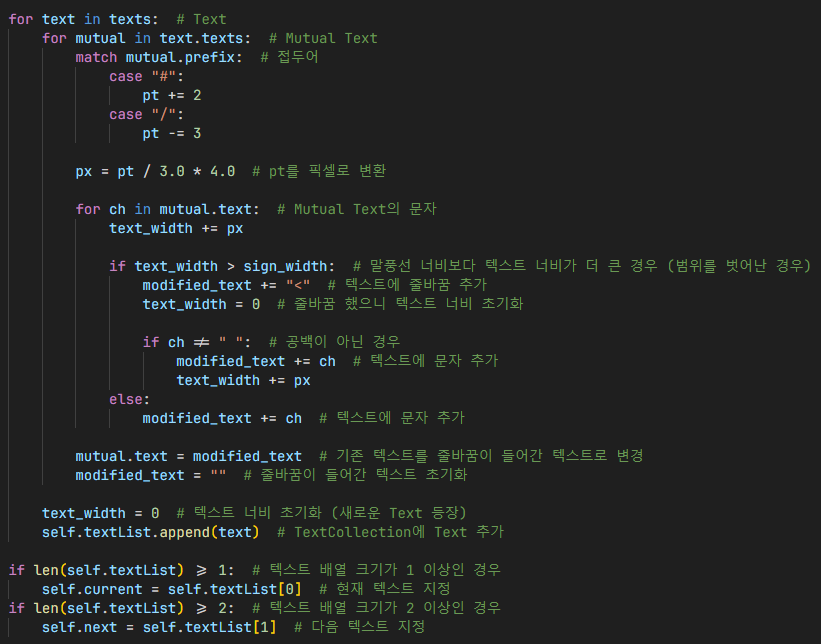
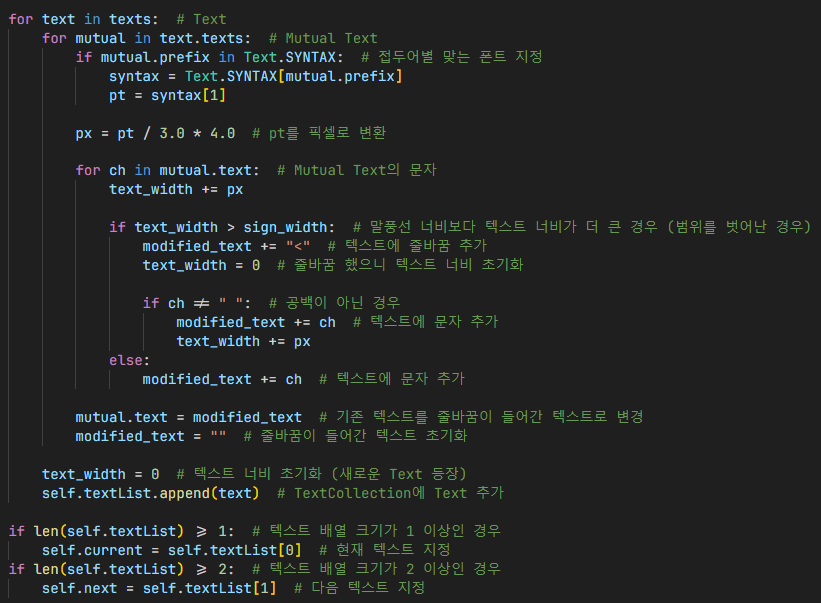
구조 문서화 14 - closed #12

diff --git a/components/text/__init__.py b/components/text/__init__.py
@@ -23,6 +23,19 @@ class Text:
     
     delay: int = 30
     """기본 지연 시간 (ms)"""
+
+    FONT = Fonts.TITLE2
+    """기본 폰트"""
+
+    PT = 18
+    """기본 폰트 크기"""
+
+    SYNTAX: dict[str, tuple[Font, int]] = {
+        "*": (Fonts.TITLE3, PT),
+        "#": (Fonts.TITLE2, PT + 4),
+        "/": (Fonts.DIALOG, PT - 4)
+    }
+    """구문"""
     
     """
     https://gist.github.com/ihoneymon/652be052a0727ad59601 : 일부 문법은 깃허브 마크다운 문법을 참조하였습니다.
@@ -32,15 +45,6 @@ class Text:
     / : 작게
     < : 줄바꿈 (New Line)
     """
-
-    FONT = Fonts.TITLE2
-    PT = 18
-
-    SYNTAX: dict[str, tuple[Font, int]] = {
-        "*": (Fonts.TITLE3, PT),
-        "#": (Fonts.TITLE2, PT + 4),
-        "/": (Fonts.DIALOG, PT - 4)
-    }
 
     def __init__(self, text: str, delay: Optional[int] = 30):
         """
@@ -53,7 +57,7 @@ class Text:
         self.pure = text  # 일단 저장. 어차피 replace() 함수를 통해 접두어를 제거하기 때문.
         self.delay = delay
 
-        for prefix in ["*", "#", "/", "^"]:
+        for prefix in ["*", "#", "/"]:
             if prefix in self.pure:  # 텍스트에 접두어가 있는 경우
                 self.has_prefix = True
                 self.pure = self.pure.replace(prefix, "")  # 순수 텍스트는 접두어가 없으므로 접두어만 삭제
@@ -64,7 +68,7 @@ class Text:
 
         for ch in self.raw:
             match ch:
-                case "*" | "#" | "/" | "^":  # 접두어
+                case "*" | "#" | "/":  # 접두어
                     is_started = not is_started  # 접두어가 없었으면 시작, 있었으면 끝
 
                     if mutual_text_:  # mutual text가 비어있지 않은 경우

diff --git a/docs/submission/dynamic_text_animation.md b/docs/submission/dynamic_text_animation.md
@@ -12,6 +12,8 @@
 
 **Text**는 Mutual Text의 배열로, 렌더링할 텍스트 (문자열) 한 단위를 말함.
 
+- `SYNTAX`: 각 접두어마다 폰트와 폰트 크기가 지정되어 있는 배열
+
 아래 주석은 각 접두어가 무슨 역할을 하는지 적어놓음.
 
 ### 초기화
@@ -46,8 +48,9 @@
 ![5](../images/dynamic_text_animation_5.png)
 ![6](../images/dynamic_text_animation_6.png)
 
-1. 접두어별 맞는 폰트 지정
-2. pt를 픽셀로 변환
+1. 상호작용 텍스트 길이 범위를 벗어난 경우, 오류가 일어날 수 있으므로 함수 종료, 이는 대화를 너무 빨리 넘길 때 발생
+2. 접두어별 맞는 폰트 지정
+3. pt를 픽셀로 변환
 
 ![7](../images/dynamic_text_animation_7.png)
 
@@ -97,13 +100,15 @@
 - `ch_x`, `ch_y`: 대화창이 시작될 좌표
 
 #### write_each()
-1. `MutualText` 배열의 범위를 벗어난 경우 텍스트 관련 변수 재설정
-2. `mutual_index` 변수로 현재 `MutualText` 클래스 가져오기
-3. `Text.write()` 함수로 문자 렌더링 후 좌표 갱신
-4. `mutual_text_index` 변수를 갱신하여 마치 for문과 같은 행동을 함
-5. `MutualText` 클래스의 문자열 범위를 벗어난 경우 새로운 `MutualText` 클래스를 가져오기 위해 index 관련 변수 재설정
-6. 문자를 렌더링하고 기다려야 할 지연 시간이 있는 경우 `threading.Timer()` 클래스를 이용하여 비동기적으로 함수 재귀
-7. 지연 시간이 없을 경우 바로 함수 재귀, 더 이상 갱신할 `MutualText`가 없는 경우 종료
+1. 상호작용 텍스트 배열 범위를 벗어난 경우, 오류가 일어날 수 있으므로 함수 종료, 이는 대화를 너무 빨리 넘길 때 발생
+2. `MutualText` 배열의 범위를 벗어난 경우 텍스트 관련 변수 재설정
+3. `mutual_index` 변수로 현재 `MutualText` 클래스 가져오기
+4. `Text.write()` 함수로 문자 렌더링 후 좌표 갱신
+5. 대화를 너무 빨리 넘겨서 `write()` 함수에서 오류를 반환한 경우, 함수 종료
+6. `mutual_text_index` 변수를 갱신하여 마치 for문과 같은 행동을 함
+7. `MutualText` 클래스의 문자열 범위를 벗어난 경우 새로운 `MutualText` 클래스를 가져오기 위해 index 관련 변수 재설정
+8. 문자를 렌더링하고 기다려야 할 지연 시간이 있는 경우 `threading.Timer()` 클래스를 이용하여 비동기적으로 함수 재귀
+9. 지연 시간이 없을 경우 바로 함수 재귀, 더 이상 갱신할 `MutualText`가 없는 경우 종료
 
 #### process_animation_event()
 1. 사용자 지정한 화면이 없을 경우 렌더링할 화면을 기본으로 지정된 화면으로 지정

diff --git a/docs/submission/grace_period.md b/docs/submission/grace_period.md
@@ -44,6 +44,12 @@
 ### 무적 시간 애니메이션
 ![6](../images/grace_period_6.png)
 
+1. 적과 플레이어 열거
+2. 해당 캐릭터의 무적 시간 변수가 할당되어 있는 경우
+3. 단일 이미지나 다중 스프라이트를 `image` 변수에 저장
+4. 해당 캐릭터가 무적 시간인 경우, `GracePeriod.make_it_ui()` 함수를 이용하여 무적 시간인 것을 플레이어에게 UI로 보여주고 무적 시간 프레임 업데이트 변수 갱신
+5. 이전 프레임에서는 무적 시간이였고 지금은 무적 시간이 아닌 경우, UI를 다시 원상복귀하고 무적 시간 프레임 업데이트 변수 갱신
+
 ## 결과
 ![5](../images/grace_period_5.gif)
 
